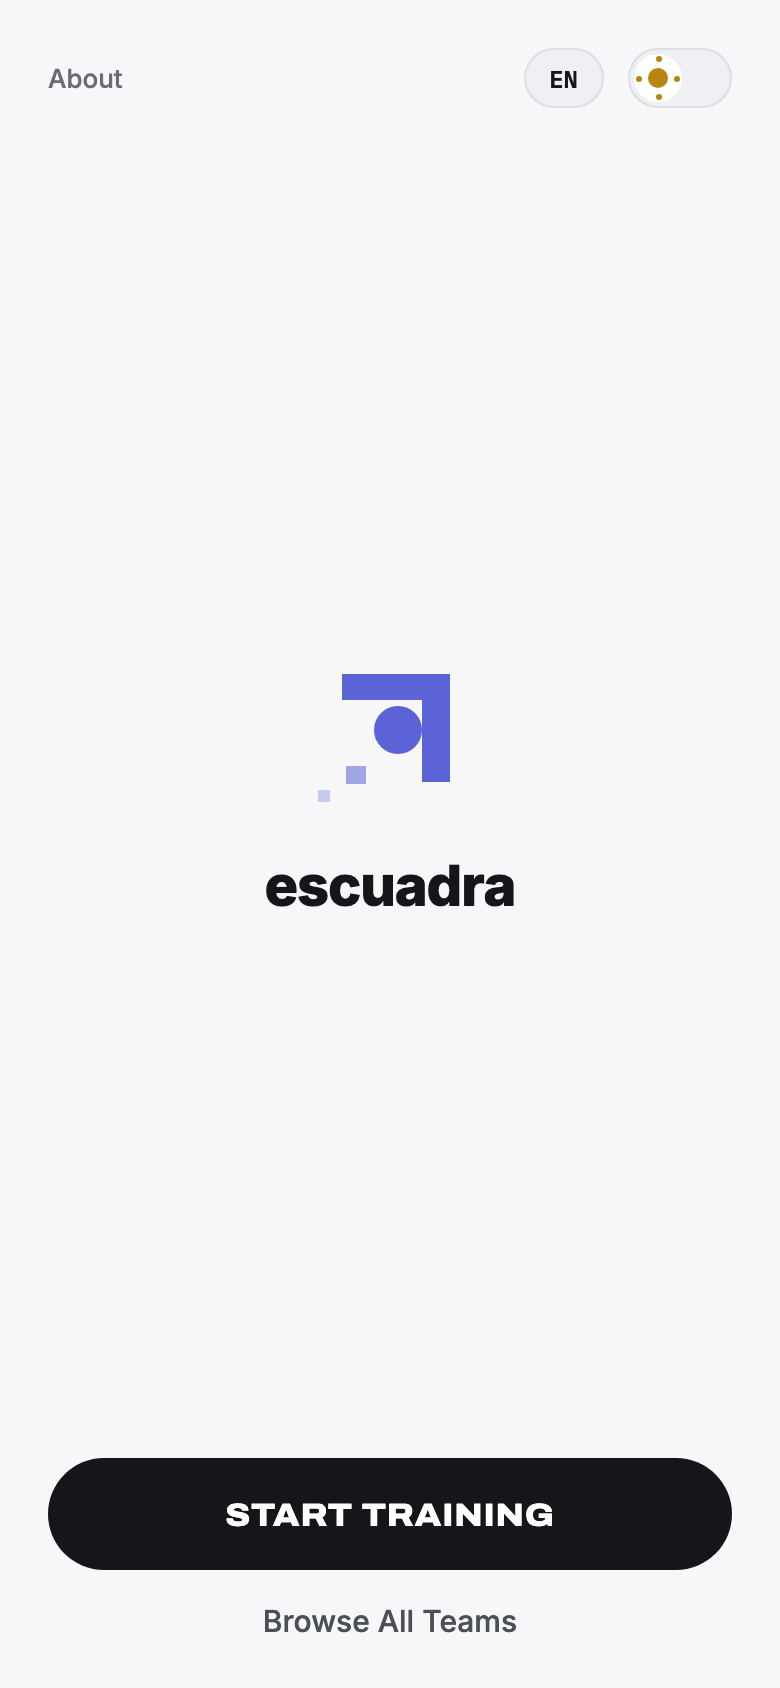
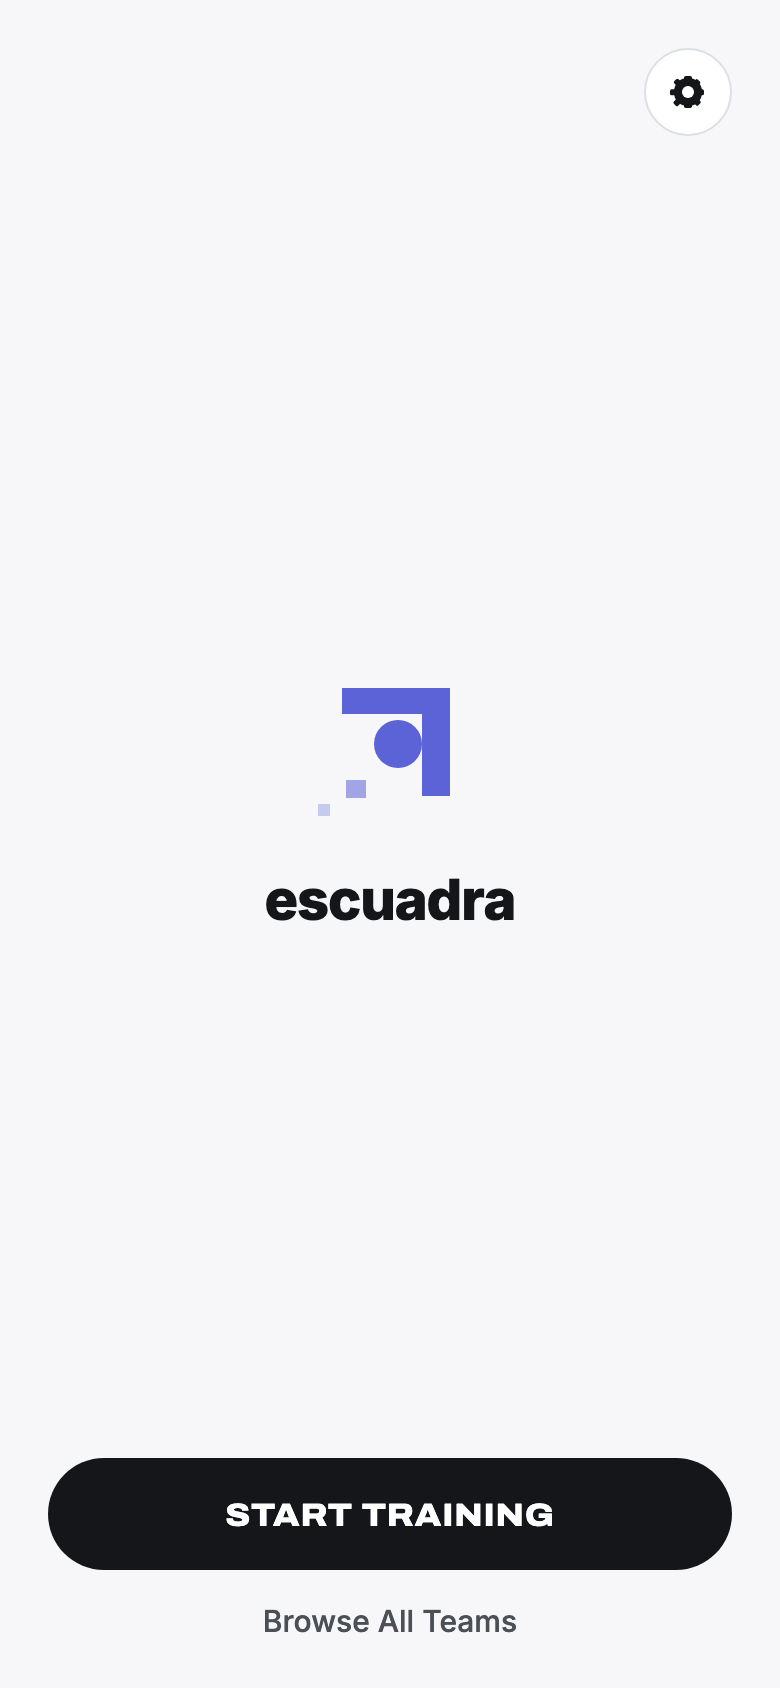
docs(settings): rules, specs and design/screens for the Settings screen (#175)

diff --git a/stores/progress.ts b/stores/progress.ts
@@ -28,16 +28,16 @@ interface ProgressState {
   themePreference: ThemePreference;
   /** The app's language (#141): `'system'` follows the phone, an explicit
    *  language pins it. A preference like `themePreference`, so it survives
-   *  `reset()`. Set by the Home language sheet (#143). */
+   *  `reset()`. Set by Settings' language sheet (#175). */
   languagePreference: LanguagePreference;
   /** Random UUID created once per installation, the anonymous `clientUser`
    *  for telemetry. Null until the root layout creates it after hydration.
    *  Survives `reset()`; a reinstall clears storage and so gets a new one. */
   installId: string | null;
-  /** The About screen's opt-out. Off means `lib/telemetry.ts` sends nothing.
+  /** Settings' opt-out. Off means `lib/telemetry.ts` sends nothing.
    *  Survives `reset()` for the same reason as `themePreference`. */
   telemetryEnabled: boolean;
-  /** The About screen's Vibration switch (spec §7). Off means `lib/haptics.ts`
+  /** Settings' Vibration switch (spec §7, #175). Off means `lib/haptics.ts`
    *  plays nothing. On by default; survives `reset()` like the other settings. */
   haptics: boolean;
   /** Study's grid or list view (spec §5.1). A preference like `themePreference`,

diff --git a/design/SCREENS.md b/design/SCREENS.md
@@ -89,18 +89,19 @@ deliberate constraint is distinguishable from an accident.
 
 ## Screens
 
-Seven routes (the results route renders two distinct states, ordinary and
+Eight routes (the results route renders two distinct states, ordinary and
 flawless — see below). Route, file, and what it does.
 
-| #   | Route                             | File                                     | Purpose                                                                                                                                                                                                                                                                  |
-| --- | --------------------------------- | ---------------------------------------- | ------------------------------------------------------------------------------------------------------------------------------------------------------------------------------------------------------------------------------------------------------------------------ |
-| 1   | `/`                               | `app/index.tsx`                          | Home. Centred, stacked wordmark lockup as the headline, continue-card for the last played team, Start Training. A language chip beside the theme toggle opens the language sheet.                                                                                        |
-| 2   | `/about`                          | `app/about.tsx`                          | About. Legal/attribution copy, data and image credits, the privacy section (photos, usage statistics, updates), and the running update line, with a Licences row that opens the licence notices.                                                                         |
-| 3   | `/team-picker`                    | `app/team-picker.tsx`                    | Team picker, segmented into Clubs and National Teams. Each row shows a mono sub-line — `LEVEL n · BEST n/10` or `NOT PLAYED`, green once cleared.                                                                                                                        |
-| 4   | `/team/[squadId]/difficulty`      | `app/team/[squadId]/difficulty.tsx`      | The difficulty ladder in level order: the focused level expanded into a card with its description and a Play button, the other levels compact (locked ones stating their unlock condition), and Study, an outline button until level 1 is cleared and a text link after. |
-| 5   | `/team/[squadId]/study`           | `app/team/[squadId]/study.tsx`           | Browsable squad: back, Hide names and a cards/list toggle; the team's banner, "Squad" and a count; position filters with counts; every player in shirt-number order as photo cards or a list. Hide names covers each name. Photo credits end the list.                   |
-| 6   | `/play/[squadId]/[level]`         | `app/play/[squadId]/[level]/index.tsx`   | A question. The photo (or the team's colours) fills the top; the shirt number with the escuadra corner, the slot chips that spell out the player, the prompt, a grid of answers and the footer sit in the thumb zone. A right answer moves on by itself; a miss waits.   |
-| 7   | `/play/[squadId]/[level]/results` | `app/play/[squadId]/[level]/results.tsx` | The round's result: close (a different team), the team and level, share; the score with the escuadra corner, the tier's title and verdict, the round strip; the missed players as snapping photo cards, or a 10/10's ten in circles; the actions; the share sheet.       |
+| #   | Route                             | File                                     | Purpose                                                                                                                                                                                                                                                                                          |
+| --- | --------------------------------- | ---------------------------------------- | ------------------------------------------------------------------------------------------------------------------------------------------------------------------------------------------------------------------------------------------------------------------------------------------------ |
+| 1   | `/`                               | `app/index.tsx`                          | Home. Centred, stacked wordmark lockup as the headline, continue-card for the last played team, Start Training. A gear at the top right opens Settings; Home has no About link, language chip or theme toggle.                                                                                   |
+| 2   | `/about`                          | `app/about.tsx`                          | About. Legal/attribution copy, data and image credits, with a Licences row that opens the licence notices, and the privacy section (photos, usage statistics, updates). No switches and no version line: both are on Settings.                                                                   |
+| 3   | `/team-picker`                    | `app/team-picker.tsx`                    | Team picker, segmented into Clubs and National Teams. Each row shows a mono sub-line — `LEVEL n · BEST n/10` or `NOT PLAYED`, green once cleared.                                                                                                                                                |
+| 4   | `/team/[squadId]/difficulty`      | `app/team/[squadId]/difficulty.tsx`      | The difficulty ladder in level order: the focused level expanded into a card with its description and a Play button, the other levels compact (locked ones stating their unlock condition), and Study, an outline button until level 1 is cleared and a text link after.                         |
+| 5   | `/team/[squadId]/study`           | `app/team/[squadId]/study.tsx`           | Browsable squad: back, Hide names and a cards/list toggle; the team's banner, "Squad" and a count; position filters with counts; every player in shirt-number order as photo cards or a list. Hide names covers each name. Photo credits end the list.                                           |
+| 6   | `/play/[squadId]/[level]`         | `app/play/[squadId]/[level]/index.tsx`   | A question. The photo (or the team's colours) fills the top; the shirt number with the escuadra corner, the slot chips that spell out the player, the prompt, a grid of answers and the footer sit in the thumb zone. A right answer moves on by itself; a miss waits.                           |
+| 7   | `/play/[squadId]/[level]/results` | `app/play/[squadId]/[level]/results.tsx` | The round's result: close (a different team), the team and level, share; the score with the escuadra corner, the tier's title and verdict, the round strip; the missed players as snapping photo cards, or a 10/10's ten in circles; the actions; the share sheet.                               |
+| 8   | `/settings`                       | `app/settings.tsx`                       | Settings. Back and title, then Play (Language row opening the language sheet, Appearance as Match phone / Dark / Light, Vibration), Privacy (the usage-statistics switch), Support (Rate), Coming next (Exam mode, dashed) and About (About Escuadra, Privacy, Licences), over the version line. |
 
 ## Captures
 
@@ -109,7 +110,9 @@ flawless — see below). Route, file, and what it does.
 | `screens/01-home.png`                    | Home                                 |
 | `screens/01a-about.png`                  | About                                |
 | `screens/01a-about-licences.png`         | About — licences sheet               |
-| `screens/01b-home-language.png`          | Home — language sheet                |
+| `screens/01c-settings.png`               | Settings                             |
+| `screens/01c-settings-end.png`           | Settings, scrolled to the end        |
+| `screens/01c-settings-language.png`      | Settings — language sheet            |
 | `screens/02-team-picker-clubs.png`       | Team picker, Clubs                   |
 | `screens/03-team-picker-nations.png`     | Team picker, National Teams          |
 | `screens/04-difficulty.png`              | Difficulty ladder                    |

diff --git a/docs/superpowers/specs/2026-10-15-play-redesign-2-0-design.md b/docs/superpowers/specs/2026-10-15-play-redesign-2-0-design.md
@@ -339,9 +339,8 @@ column's call, which goes through the vibrator.
 | Reveal on Study      | `impactAsync(Light)`                                                                                | `Virtual_Key`                      | new   |
 | Fail, share, buttons | none                                                                                                | none                               | —     |
 
-A **Vibration** switch on the About screen, on by default, persists as `haptics` in
-`stores/progress.ts`. It lives on the About screen because there is no Settings screen. The
-iOS system setting and Low Power Mode still apply. Haptics never leave the device; no
+A **Vibration** switch on the Settings screen (#175), on by default, persists as `haptics` in
+`stores/progress.ts`. The iOS system setting and Low Power Mode still apply. Haptics never leave the device; no
 disclosure.
 
 ## 8. Tokens and type

diff --git a/.claude/rules/privacy-telemetry.md b/.claude/rules/privacy-telemetry.md
@@ -3,6 +3,7 @@ paths:
   - "lib/telemetry*.ts"
   - "lib/__tests__/telemetry*.ts"
   - "app/about.tsx"
+  - "app/settings.tsx"
   - "lib/settingsView.ts"
   - "scripts/privacy-pages.ts"
   - "i18n/en.ts"
@@ -43,7 +44,7 @@ when opted out, and with no App ID (`app.json` →
 `extra.telemetryDeckAppId`). `lib/telemetry.ts` is the only app module that
 imports the SDK; screens call its `track()`. The anonymous `clientUser` is
 a random `installId` persisted in `stores/progress.ts`, next to the
-About-screen opt-out. Non-`production` channels send TelemetryDeck test
+Settings-screen opt-out. Non-`production` channels send TelemetryDeck test
 signals. **A new event or property is a disclosure review** (guardrail 4):
 the privacy policy, About text, App Privacy and Data safety answers change
 with it, in a store build. So is an upgrade of `@telemetrydeck/sdk` (or of

diff --git a/.claude/rules/stores.md b/.claude/rules/stores.md
@@ -12,4 +12,4 @@ paths:
   only when neither does, and say why in the PR.
 - Zustand's `persist` defaults to `localStorage`, which does not exist here. Use
   `createJSONStorage(() => AsyncStorage)`.
-- `stores/progress.ts` also holds the theme preference (it is not a third store) and telemetry's random `installId`, next to the About-screen opt-out.
+- `stores/progress.ts` also holds the theme preference (it is not a third store) and telemetry's random `installId`, next to the Settings opt-out.
